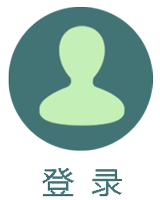
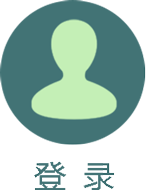
写了关闭按钮 以及跳转

diff --git a/src/main/resources/static/loginIn.html b/src/main/resources/static/loginIn.html
@@ -12,9 +12,9 @@
 
     <div id="totalDiv">
         <!-- TotalDiv 包含了剩下的几个单独的div 给TotalDiv设置背景-->
-        <div id="firstViewDiv" class="middleDiv" style="display: none;" >
-            <img id="LoginLogo" src="image/signin_icon.png">
-            <img id="RegiestLogo" src="image/register_icon.png">
+        <div id="firstViewDiv" class="middleDiv" style="" >
+            <img id="LoginLogo" onclick="showLoginDiv()" src="image/signin_icon.png">
+            <img id="RegiestLogo" onclick="showRegistDiv()" src="image/register_icon.png">
             <div id="firstView_p_Div">
                 <p id="ktzs_Chi">课堂助手</p><br>
                 <p id="ktzs_Eng"><span style="font-weight: 100">CLASSROOM</span> ASSISTANT</p>
@@ -23,7 +23,7 @@
 
         <div id="logininDiv" style="display: none">
 
-            <img id="close_loginIn" src="image/close.png" height="20" width="20"/>
+            <img id="close_loginIn" onclick="Login_close()" src="image/close.png" height="20" width="20"/>
             <div id="BagOfInput_login">
                 <p><span id="littleDiv_loginin_Chinese" >课堂助手</span>
                     <br>
@@ -43,14 +43,14 @@
                 </div>
 
                 <div id="loginIn_Button">登录</div>
-                <div id="goRegiestDiv"><span style="cursor: pointer;">前去注册</span></div>
+                <div id="goRegiestDiv"><span style="cursor: pointer;" onclick="goRegist()">前去注册</span></div>
             </div>
 
         </div>
 
-        <div id="regiestDiv">
+        <div id="regiestDiv" style="display: none">
 
-            <img id="close_regiest" src="image/close.png" height="20" width="20"/>
+            <img id="close_regiest" src="image/close.png" onclick="Regist_close()" height="20" width="20"/>
             <div id="BagOfInput_regiest">
                 <p style="margin-bottom: 50px"><span id="littleDiv_regiest_Chinese" >注册账号</span>
                     <br>
@@ -59,17 +59,17 @@
 
                 <div class="input_regist_div">
                     <span>账号|</span>
-                    <input class="input_login" type="text">
+                    <input class="input_regist" type="text">
                 </div>
 
                 <div class="input_regist_div">
                     <span>姓名|</span>
-                    <input class="input_login" type="text" placeholder="请输入真实姓名" style="letter-spacing: 4px">
+                    <input class="input_regist" type="text" placeholder="请输入真实姓名" style="letter-spacing: 4px">
                 </div>
 
                 <div class="input_regist_div">
                     <span>密码|</span>
-                    <input class="input_login" type="password">
+                    <input class="input_regist" type="password">
                 </div>
 
                 <div id="slide_outDiv">

diff --git a/src/main/resources/static/css/LoginIn.css b/src/main/resources/static/css/LoginIn.css
@@ -15,14 +15,16 @@ body{
 }
 img#LoginLogo {
     position: absolute;
-    left: 33%;
-    top: 36%;
+    left: 28%;
+    top: 40%;
+    cursor: pointer;
 }
 
 img#RegiestLogo {
     position: absolute;
-    left: 65%;
+    left: 62%;
     top: 26%;
+    cursor: pointer;
 }
 
 div#firstView_p_Div {
@@ -160,6 +162,16 @@ input.input_login {
     padding-left: 5px;
     cursor: pointer;
 }
+input.input_regist {
+    font-size: 20px;
+    border: 0;
+    /* background-color: #ecf9e9; */
+    background-color: rgba(236, 249, 233, 0);
+    /* color: green; */
+    color: #367679;
+    padding-left: 5px;
+    cursor: pointer;
+}
 
 div#loginIn_Button {
     width: 100%;
@@ -199,6 +211,24 @@ div#loginIn_Button {
     color: #c5c5c5;
     font-weight: 200;
 }           /* IEÃƒÆ’Ã‚Â¦Ãƒâ€šÃ‚ÂµÃƒâ€šÃ‚ÂÃƒÆ’Ã‚Â¨Ãƒâ€šÃ‚Â§Ãƒâ€¹Ã¢â‚¬Â ÃƒÆ’Ã‚Â¥ÃƒÂ¢Ã¢â‚¬Å¾Ã‚Â¢Ãƒâ€šÃ‚Â¨ */
+
+
+.input_regist::-webkit-input-placeholder{
+    color:#c5c5c5;
+    font-weight: 200;
+}    /* ÃƒÆ’Ã‚Â¤Ãƒâ€šÃ‚Â½Ãƒâ€šÃ‚Â¿ÃƒÆ’Ã‚Â§ÃƒÂ¢Ã¢â€šÂ¬Ã‚ÂÃƒâ€šÃ‚Â¨webkitÃƒÆ’Ã‚Â¥ÃƒÂ¢Ã¢â€šÂ¬Ã‚Â ÃƒÂ¢Ã¢â€šÂ¬Ã‚Â¦ÃƒÆ’Ã‚Â¦Ãƒâ€šÃ‚Â Ãƒâ€šÃ‚Â¸ÃƒÆ’Ã‚Â§Ãƒâ€¦Ã‚Â¡ÃƒÂ¢Ã¢â€šÂ¬Ã…Â¾ÃƒÆ’Ã‚Â¦Ãƒâ€šÃ‚ÂµÃƒâ€šÃ‚ÂÃƒÆ’Ã‚Â¨Ãƒâ€šÃ‚Â§Ãƒâ€¹Ã¢â‚¬Â ÃƒÆ’Ã‚Â¥ÃƒÂ¢Ã¢â‚¬Å¾Ã‚Â¢Ãƒâ€šÃ‚Â¨ */
+.input_regist:-moz-placeholder{
+    color:#c5c5c5;
+    font-weight: 200;
+}                  /* FirefoxÃƒÆ’Ã‚Â§ÃƒÂ¢Ã¢â€šÂ¬Ã‚Â°Ãƒâ€¹Ã¢â‚¬Â ÃƒÆ’Ã‚Â¦Ãƒâ€¦Ã¢â‚¬Å“Ãƒâ€šÃ‚Â¬4-18 */
+.input_regist::-moz-placeholder{
+    color:#c5c5c5;
+    font-weight: 200;
+}                  /* FirefoxÃƒÆ’Ã‚Â§ÃƒÂ¢Ã¢â€šÂ¬Ã‚Â°Ãƒâ€¹Ã¢â‚¬Â ÃƒÆ’Ã‚Â¦Ãƒâ€¦Ã¢â‚¬Å“Ãƒâ€šÃ‚Â¬19+ */
+.input_regist:-ms-input-placeholder{
+    color: #c5c5c5;
+    font-weight: 200;
+}
 
 div#regist_Button {
     width: 100%;

diff --git a/src/main/resources/static/script/regist_login.js b/src/main/resources/static/script/regist_login.js
@@ -54,7 +54,51 @@ var timer = null;
                 clearInterval(timer);
             }
         },5)
+    };
+
+//    以下是对首页两个图片  注册登录的 显示
+var firstViewDiv = document.getElementById("firstViewDiv");
+var logininDiv = document.getElementById("logininDiv");
+var registDiv = document.getElementById("regiestDiv")
+var input_login = document.getElementsByClassName("input_login");
+var input_regist = document.getElementsByClassName("input_regist");
+
+function showLoginDiv() {
+        // console.log("show Login")
+    firstViewDiv.style.display = "none";
+    logininDiv.style.display = "block"
+}
+function showRegistDiv() {
+    // console.log("show Register")
+    firstViewDiv.style.display = "none";
+    registDiv.style.display = "block";
+}
+
+//对关闭图标的显示
+function Login_close() {
+    logininDiv.style.display = "none";
+    firstViewDiv.style.display = "block";
+    //当退出登录界面时 清空信息
+    for(var i = 0;i<input_login.length;i++){
+        // console.log(input_login[i].value)
+        input_login[i].value = null;
     }
+
+
+}
+function Regist_close() {
+    registDiv.style.display = "none";
+    firstViewDiv.style.display = "block";
+    //当退出注册界面时 清空信息
+    for(var i = 0;i<input_regist.length;i++){
+        // console.log(input_login[i].value)
+        input_regist[i].value = null;
+    }
+}
+function goRegist() {
+    logininDiv.style.display = "none";
+    registDiv.style.display = "block";
+}
 
 
 
